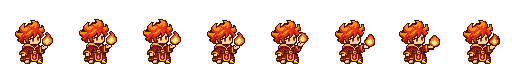
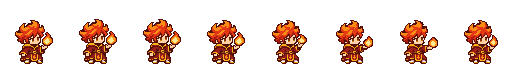
블레이즈 공격 칸 크기 수정, 아이비·코라 동작 시안

diff --git a/개발일지/2026-11-28/이미지.md b/개발일지/2026-11-28/이미지.md
@@ -95,3 +95,8 @@
 - 한 것: `img/p/flame.png`(64×64, 전 61×61), `img/p/flame_anim.png`(512×64)를 확정본으로 바꿈. 같은 파일 이름이라 UI에 알림(배포 때 `files`에 필요).
 - 의도: "넣고 진행"
 - 결과: 크기 확인. 게임 화면에서 재생해 보지는 않음(8766 포트를 다른 세션이 쓰는 중).
+
+## [개발] 아이비·코라 동작 8칸, 블레이즈 공격 칸 크기 바로잡음
+- 한 것: 아이비(감은 채찍을 풀어 내려치고 되감기), 코라(철퇴를 들어 올려 내려치기) 동작(`img/codex/redo3/final/{vine,coral}_anim.png`, 아직 `img/p` 아님). 받은 시트의 실제 점 크기(칸마다 10~11px)를 9.8px로 잘못 가정해 공격 칸이 늘어나 있던 것을 칸별로 다시 재서 고침. 이미 넣은 `img/p/flame_anim.png`도 교체.
+- 의도: "넣고 진행"
+- 결과: 8칸을 나란히 놓고 크기·얼굴·발 위치 확인. 움직이는 모습과 게임 화면은 확인 안 함. 코라 7번 칸은 철퇴 아래가 칸 밖으로 조금 잘림.
